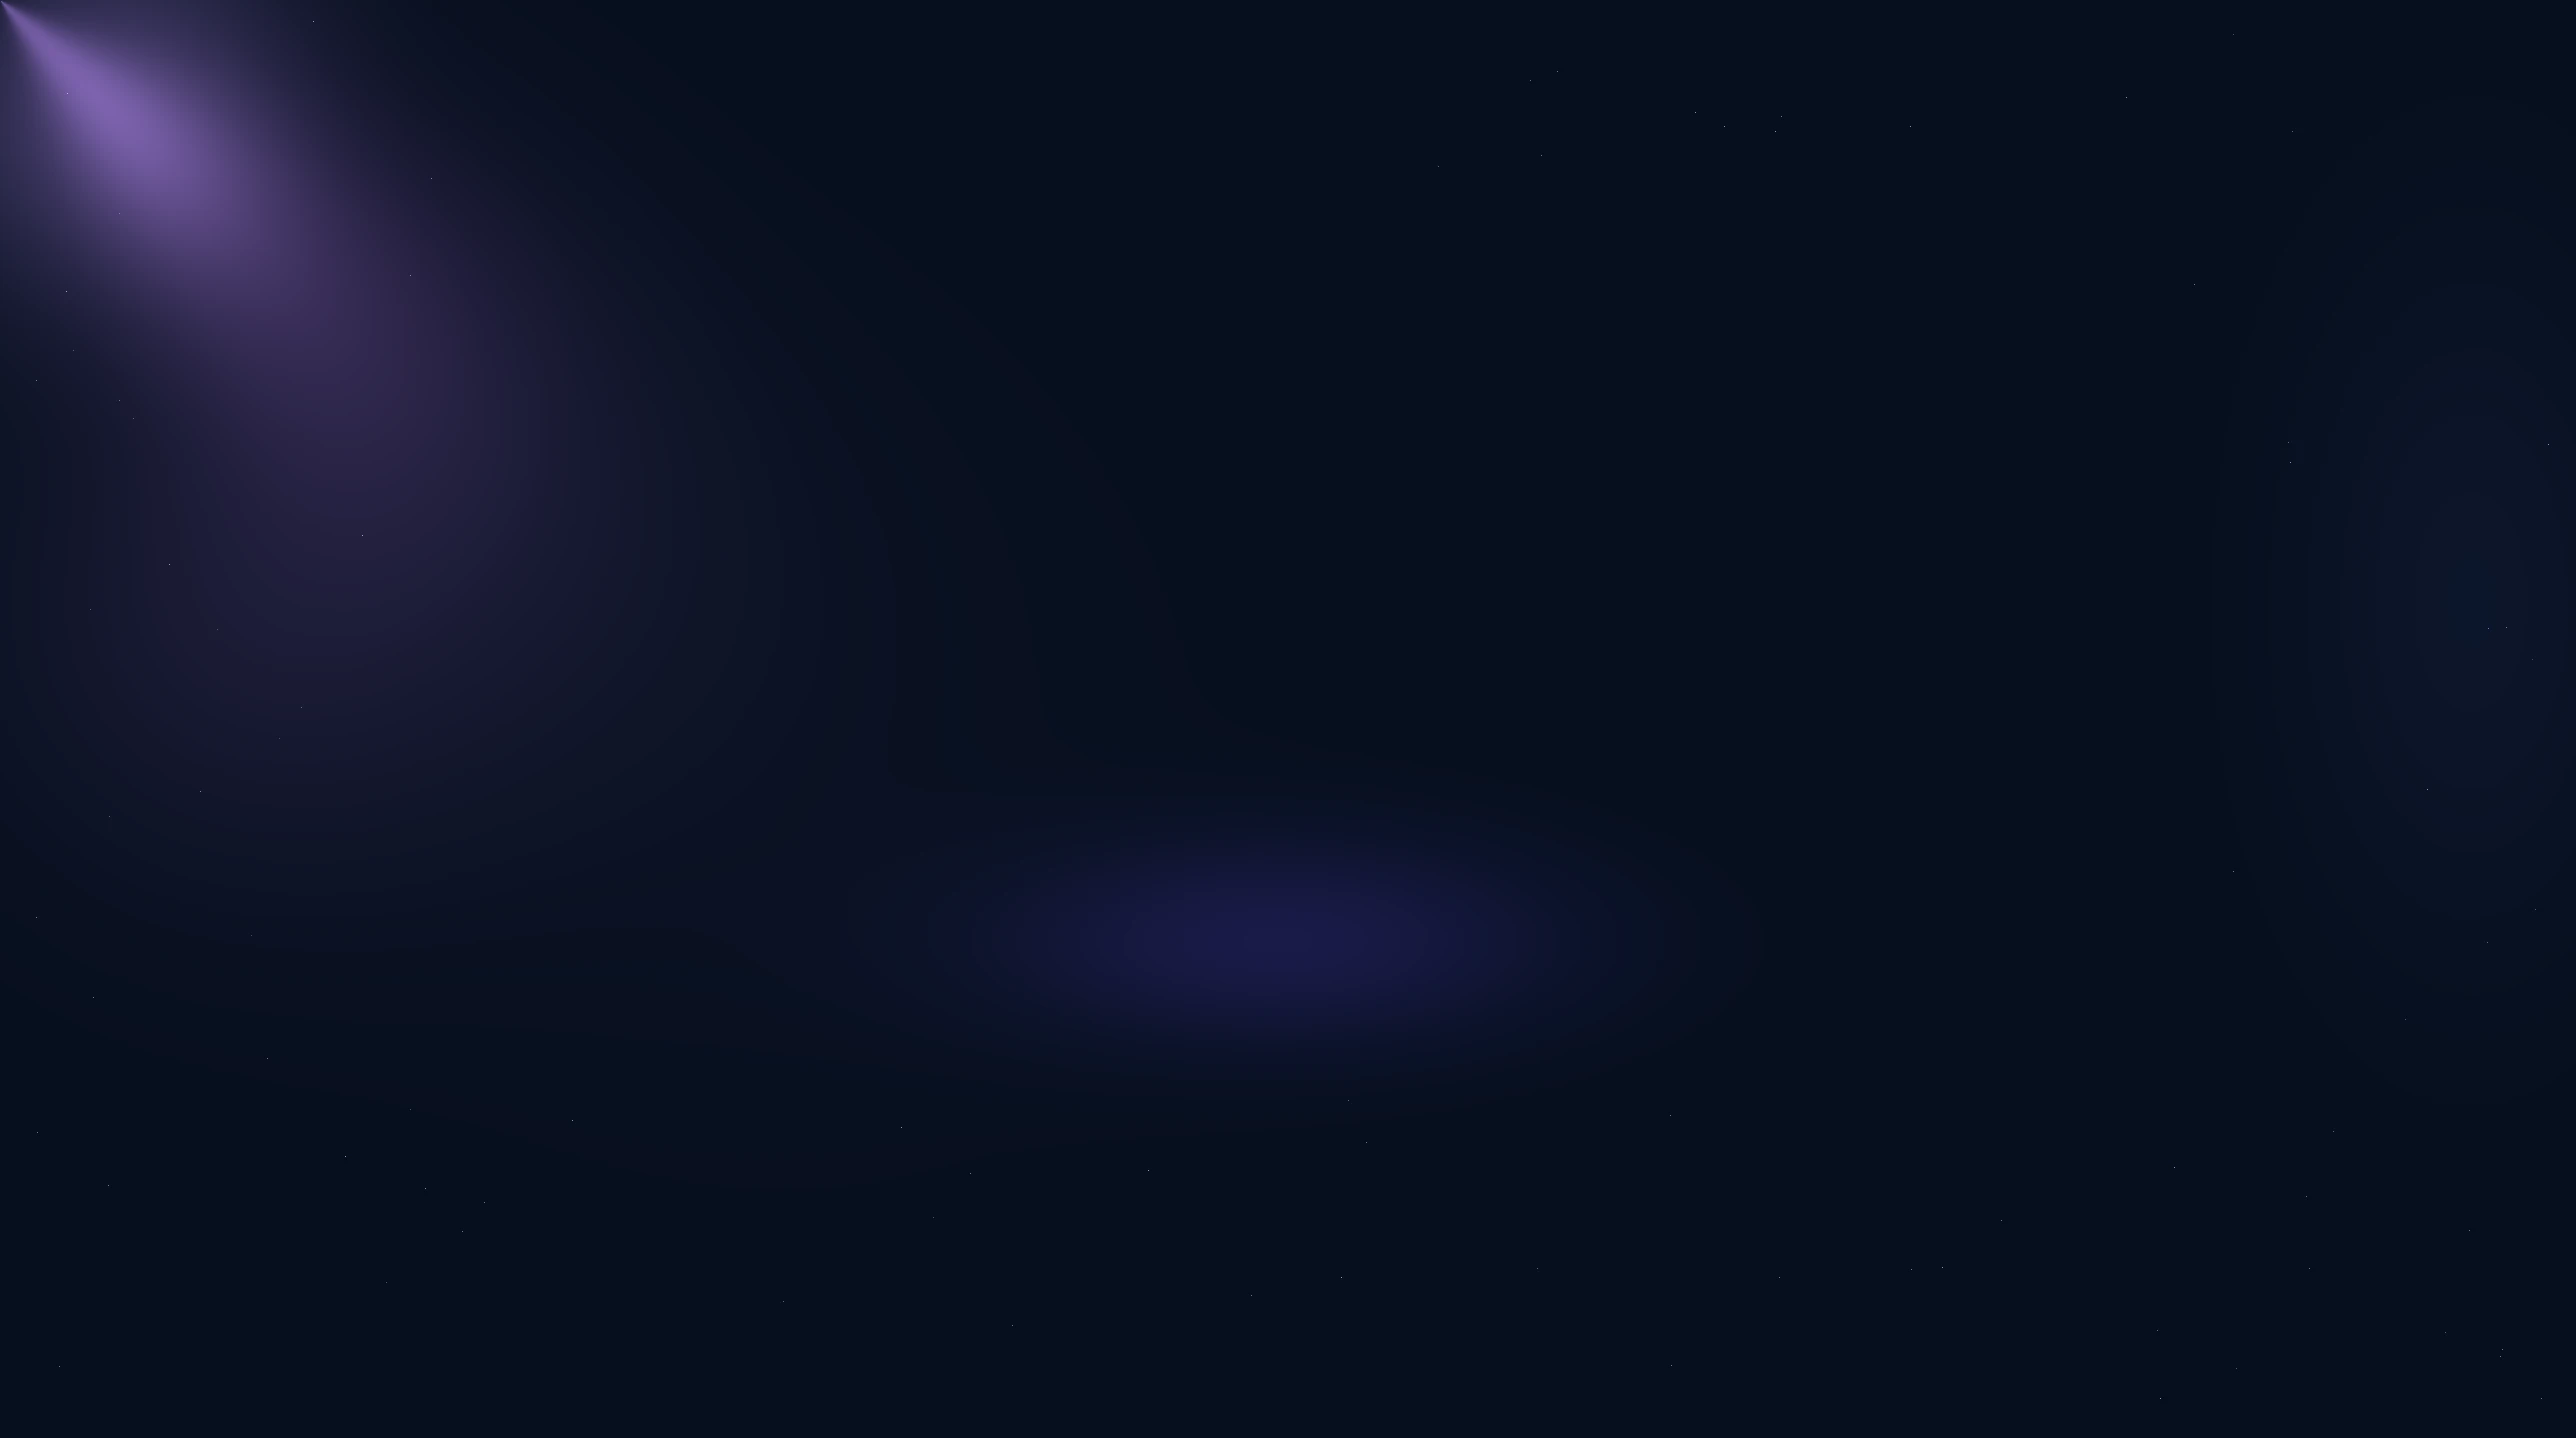
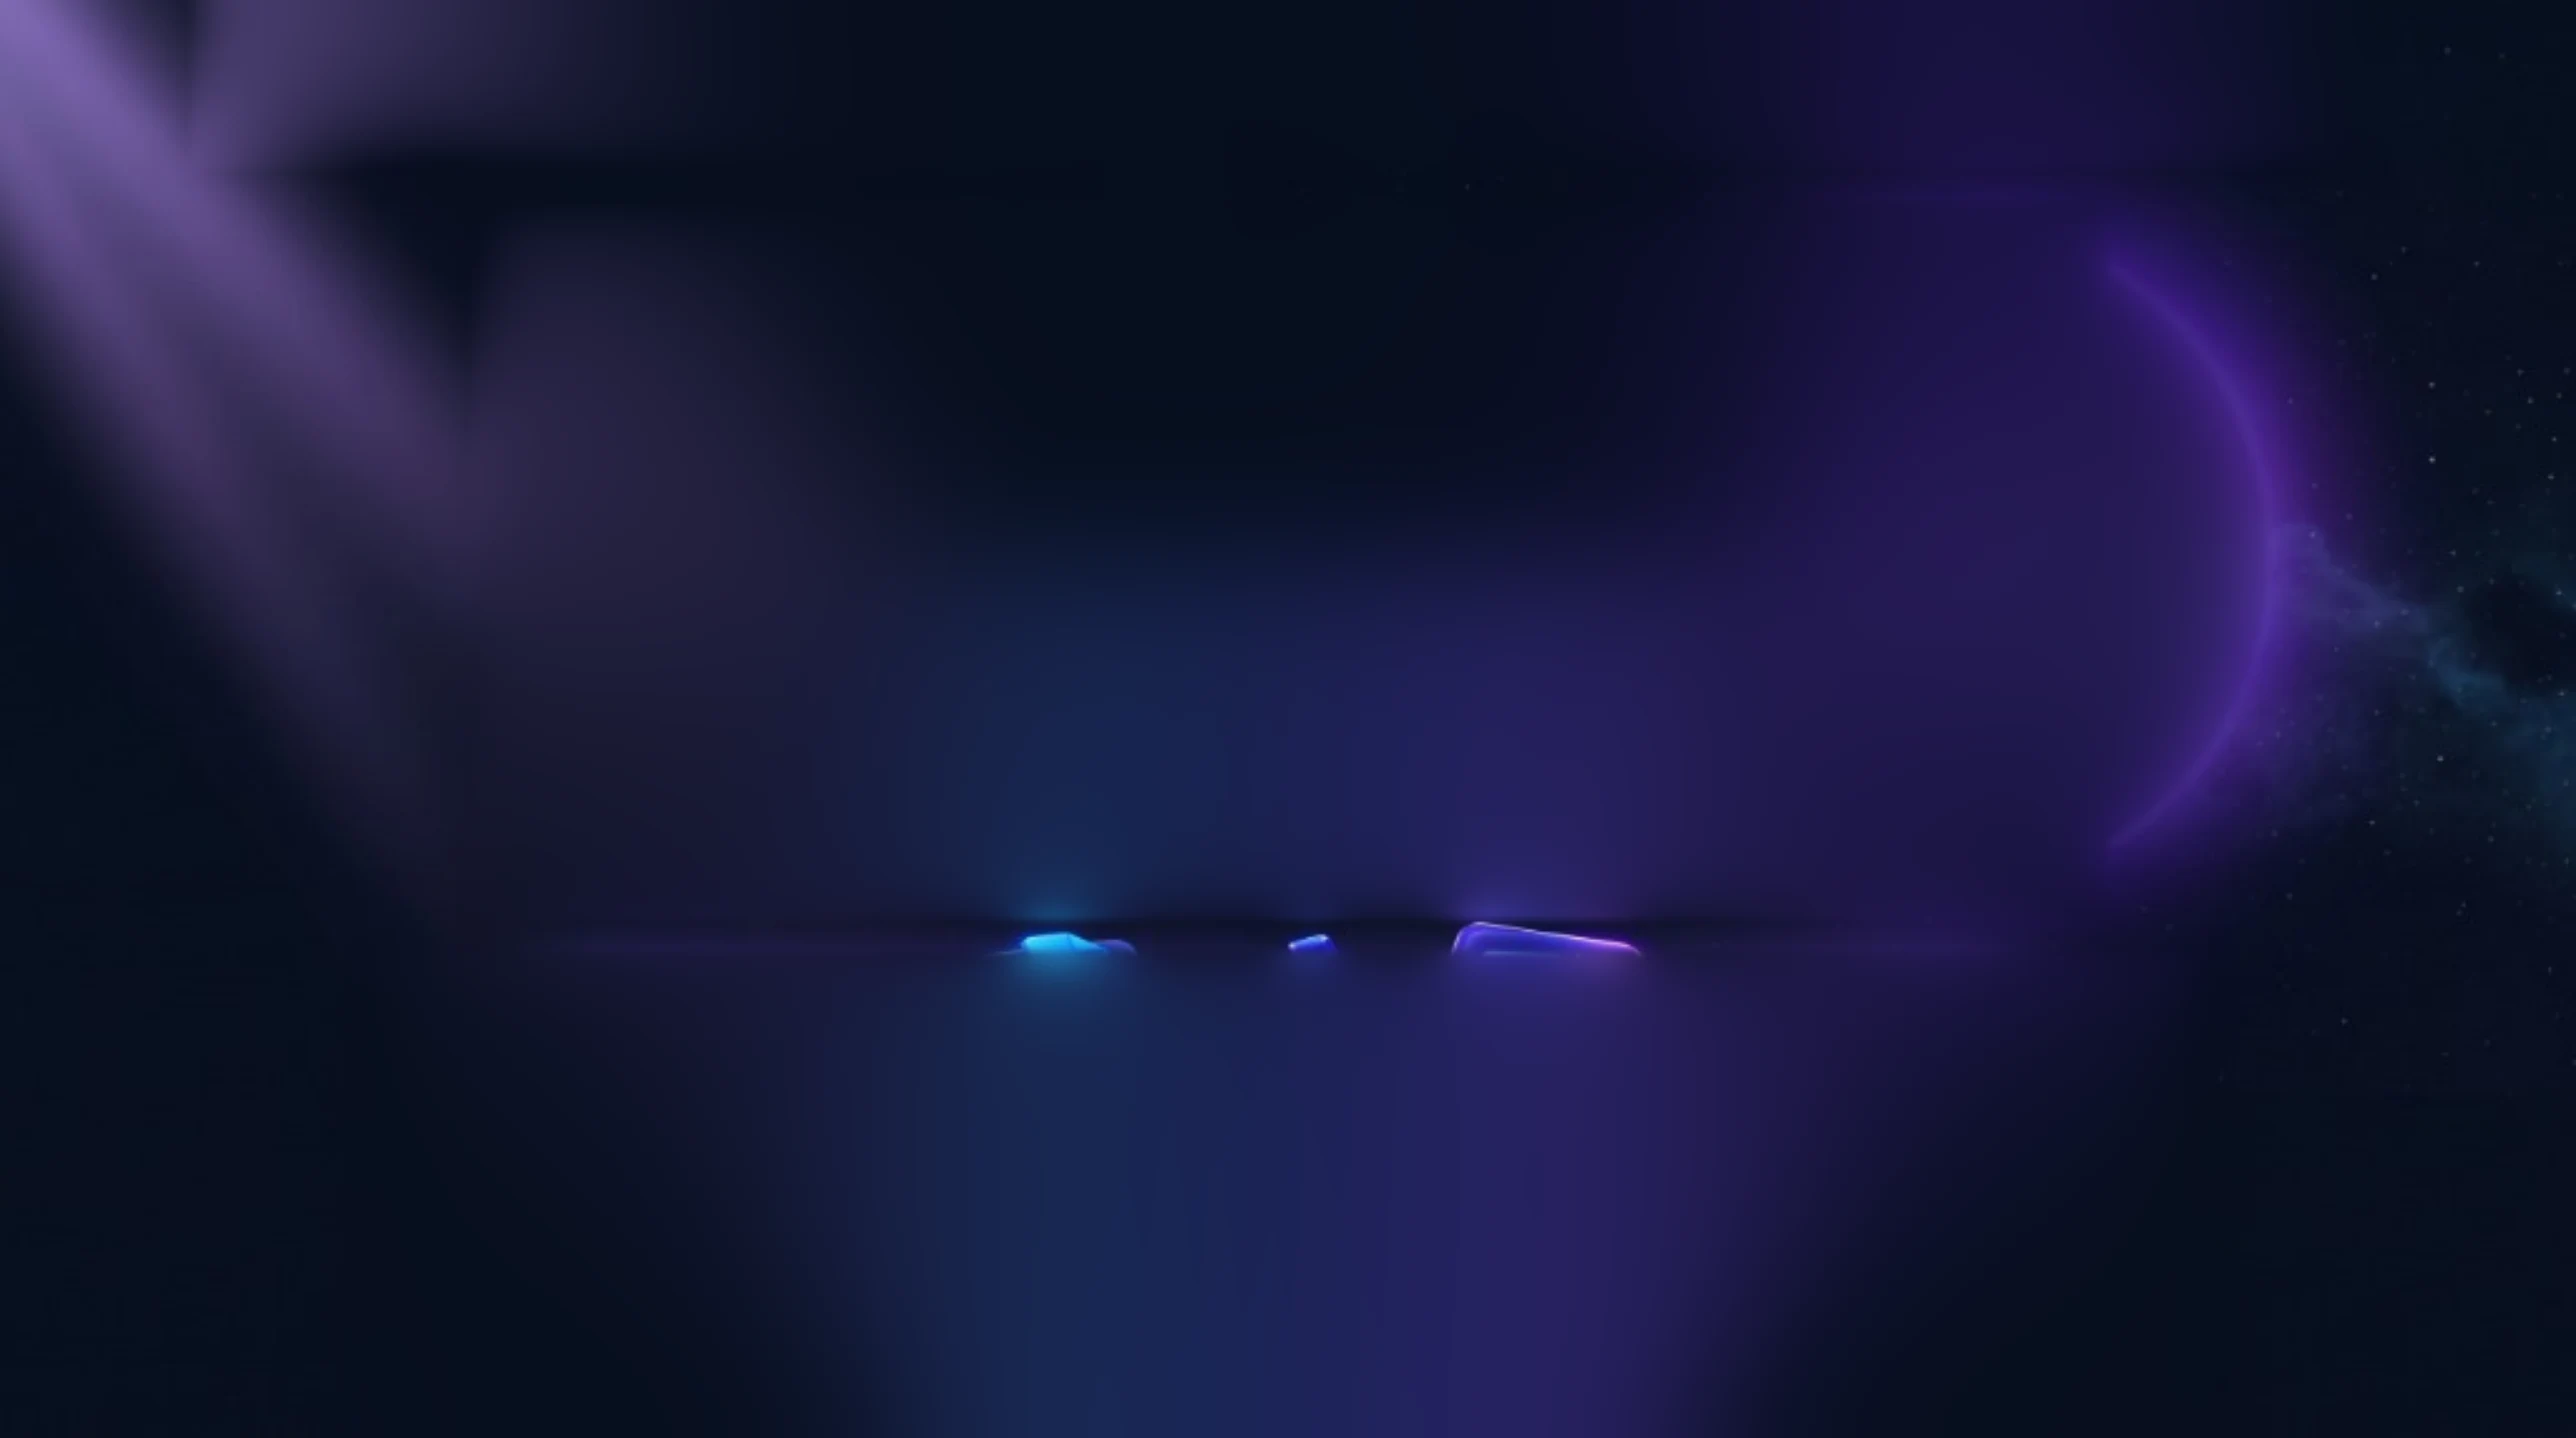
phase 2j: plate from target, measured ring, tablet registration, fold fade

diff --git a/src/components/landing/hero.css b/src/components/landing/hero.css
@@ -74,12 +74,12 @@ html.light .cx-hero__nebula{
   position:absolute; z-index:0; pointer-events:none;
   left:967px; top:140px; transform:translateX(-50%);
   width:275px; height:275px; aspect-ratio:1; border-radius:50%;
-  background:#081022;
+  background:#090e24;
   box-shadow:
-    12px 2px 30px -4px rgba(195, 150, 245, 0.95),
-    22px 4px 65px 6px rgba(150, 90, 240, 0.70),
-    0 0 0 2px rgba(220, 200, 255, 0.90),
-    inset -12px 4px 30px -4px rgba(220, 200, 255, 0.70);
+    0 0 0 1px rgba(215, 190, 255, 0.75),
+    12px 0 28px -3px rgba(185, 140, 245, 0.88),
+    26px 0 60px 6px rgba(135, 80, 225, 0.62),
+    inset -10px 2px 20px -6px rgba(195, 160, 250, 0.45);
 }
 html.light .cx-hero__ring{
   background:radial-gradient(circle at 42% 45%, #f1ecff 0 70%, #e7e0ff 100%);
@@ -106,9 +106,14 @@ html.light .cx-hero__ring{
   -webkit-background-clip:text; background-clip:text; color:transparent;
   padding-bottom:.08em;                              /* no clipped descenders */
 }
-.cx-sub{
-  max-width:624px; margin:12px auto 0; color:var(--h-muted);
+.cx-sub,
+.cx-hero .cx-sub,
+html.dark .cx-hero .cx-sub{
+  max-width:624px; margin:12px auto 0; color:#9b9fb5 !important;
   font:400 17.5px/1.34 var(--font-inter),system-ui,sans-serif;
+}
+html.light .cx-hero .cx-sub{
+  color:#5b5675 !important;
 }
 .cx-ctas{ display:flex; flex-wrap:wrap; justify-content:center; gap:14px; margin-top:25px; }
 .cx-hbtn{
@@ -132,13 +137,18 @@ html.light .cx-hero__ring{
 /* ---------- tablet showcase: tilted, bleeds off the bottom, icons pop above the rim ---------- */
 .cx-stage-crop{
   position:relative; z-index:1; margin-top:43px; pointer-events:none;
-  height:clamp(220px,22vw,320px);
-  clip-path:inset(-140px -200px 0 -200px);           /* crops ONLY the bottom edge */
+  height:calc(clamp(220px,22vw,320px) + 140px);
+  overflow:visible;
 }
-.cx-stage{ perspective:780px; perspective-origin:50% 0; }
+.cx-stage{
+  perspective:780px; perspective-origin:50% 0;
+  -webkit-mask-image:linear-gradient(to bottom, #000 calc(100% - 140px), transparent 100%);
+  mask-image:linear-gradient(to bottom, #000 calc(100% - 140px), transparent 100%);
+}
 .cx-tablet{
-  position:relative; width:58.4%; max-width:752px; margin:0 auto; padding:0 10px;
-  border:2px solid transparent; border-bottom:0; border-radius:28px 28px 0 0;
+  position:relative; width:58.07%; max-width:748px; margin:0 auto; padding:0;
+  height:520px; overflow:hidden;
+  border:1px solid transparent; border-bottom:0; border-radius:28px 28px 0 0;
   background:
     linear-gradient(#03030d,#03030d) padding-box,
     linear-gradient(180deg, rgba(216, 180, 254, 0.95) 0%, rgba(147, 51, 234, 0.8) 35%, rgba(106, 70, 224, 0.25) 100%) border-box;
@@ -155,10 +165,9 @@ html.light .cx-tablet{
   box-shadow:0 -10px 40px rgba(124,58,237,.25);
 }
 .cx-tablet__img{
-  display:block; width:100%; height:auto;
-  margin-top:-7.5%;                                   /* % = of width: lifts icons above the rim */
-  -webkit-mask-image:linear-gradient(to bottom,transparent 0,#000 6%);
-          mask-image:linear-gradient(to bottom,transparent 0,#000 6%);
+  display:block; width:100%; height:auto; margin-top:0;
+  transform:scale(0.97, 0.70) rotate(1deg) translate(0px, -88px);
+  transform-origin:50% 0;
 }
 
 /* ---------- mobile ---------- */
